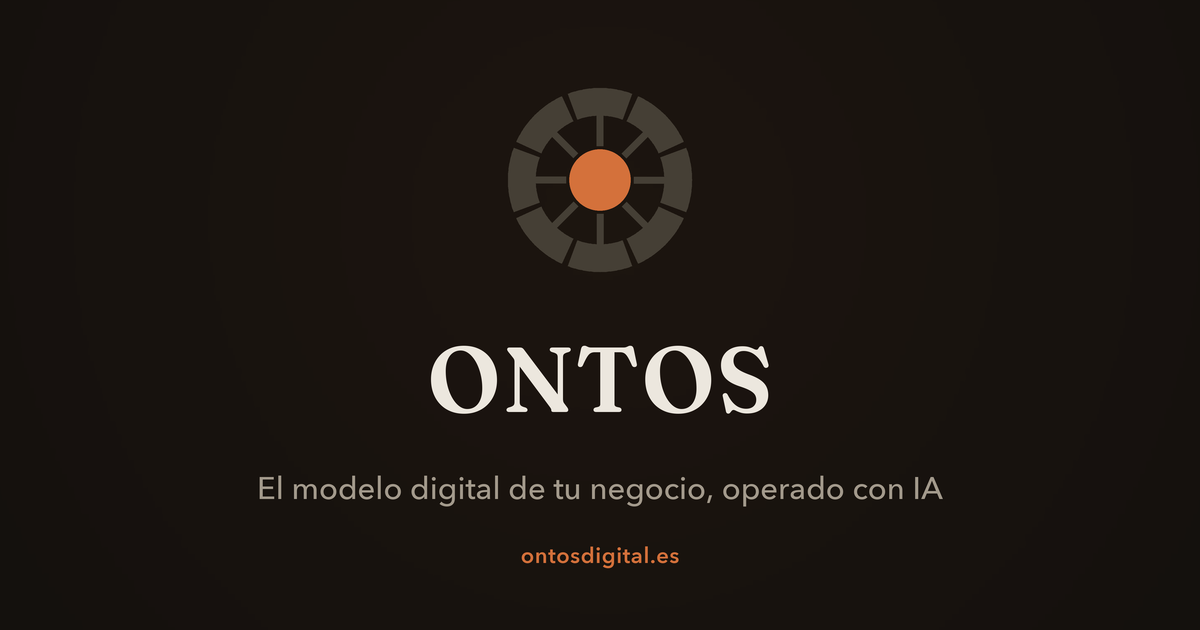
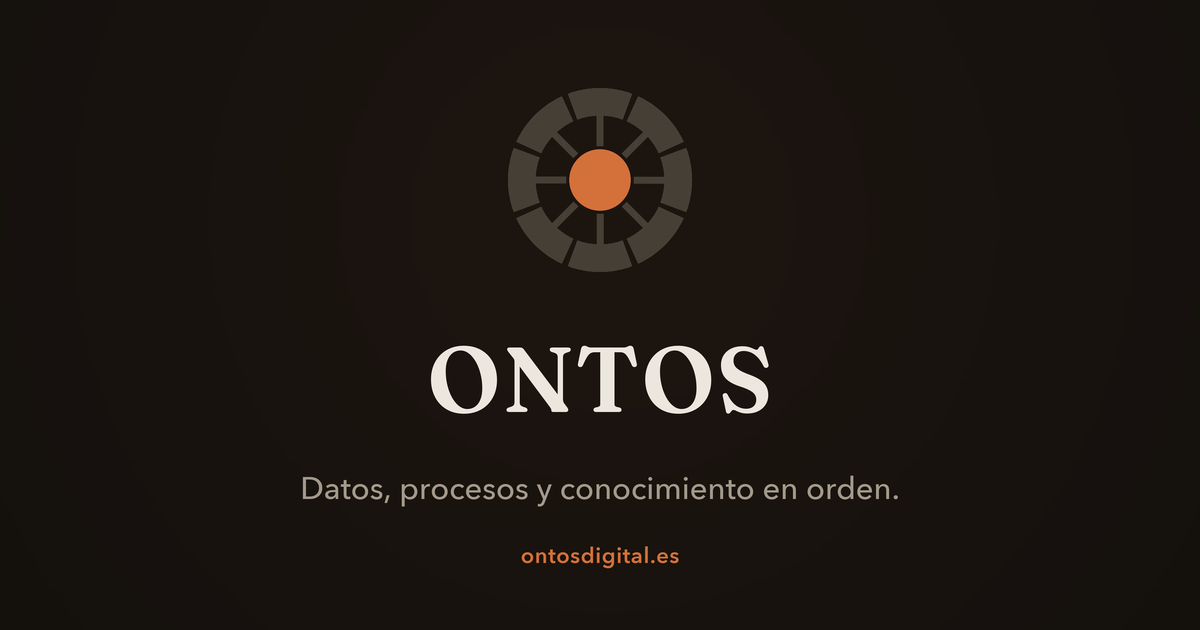
feat: og:image con la frase nueva «Datos, procesos y conocimiento en orden.» — gen-og.py la lee de ONTOS/data/mensaje.json (superficie web.og), ya no la lleva escrita

Changed region(s): [[0.2158, 0.754, 0.8017, 0.8143]]

diff --git a/brand/gen-og.py b/brand/gen-og.py
@@ -73,7 +73,15 @@ def draw_centered(y, text, f, fill, tracking=0.0):
         x += d.textlength(ch, font=f) + tracking * S
 
 draw_centered(322, "ONTOS", ImageFont.truetype(FRAUNCES, 92 * S), TEXTO, tracking=1.8)
-draw_centered(468, "El modelo digital de tu negocio, operado con IA", font(MEDIUM, 31), GRANITO_CLARO)
+# la frase NO vive aquí: es la superficie `web.og` de ONTOS/data/mensaje.json, la fuente única de lo
+# que ONTOS dice en cada sitio (23-sep-2026). Sin ella, error: nunca una og con texto viejo en silencio
+import json, sys
+_M = Path.home() / "Dev" / "ONTOS" / "data" / "mensaje.json"
+try:
+    TAGLINE = next(x["es"] for x in json.loads(_M.read_text())["superficies"] if x["id"] == "web.og")
+except Exception as e:
+    sys.exit(f"gen-og: no encuentro la superficie web.og en {_M} ({e})")
+draw_centered(468, TAGLINE, font(MEDIUM, 31), GRANITO_CLARO)
 draw_centered(541, "ontosdigital.es", font(DEMI, 22), TEJA, tracking=0.6)
 
 img.resize((W, H), Image.LANCZOS).save("/Users/fdocallel/Dev/ontosdigital-web/brand/og.png")
